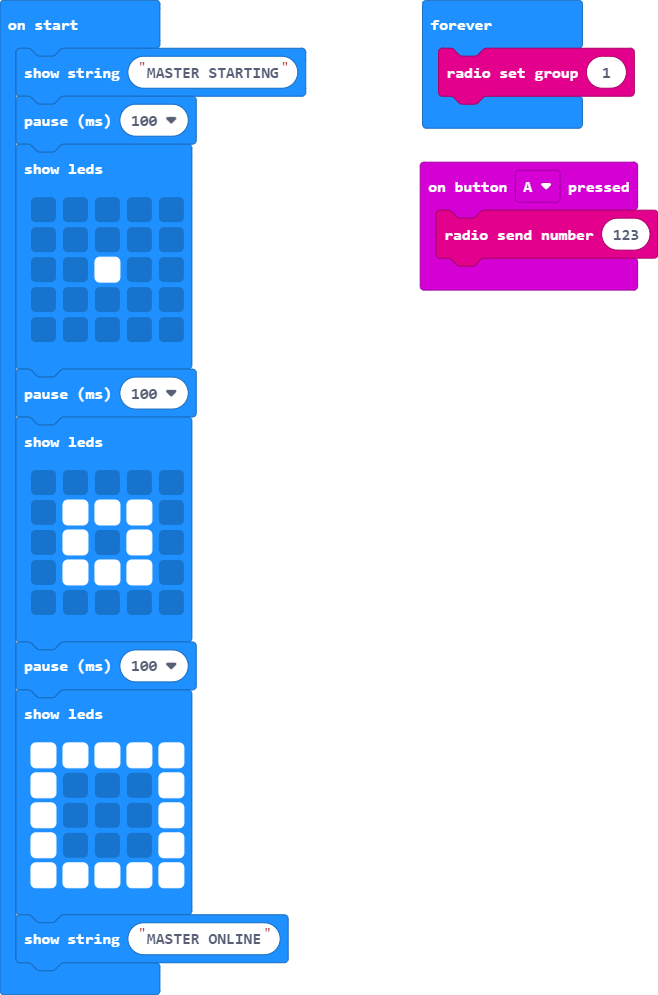
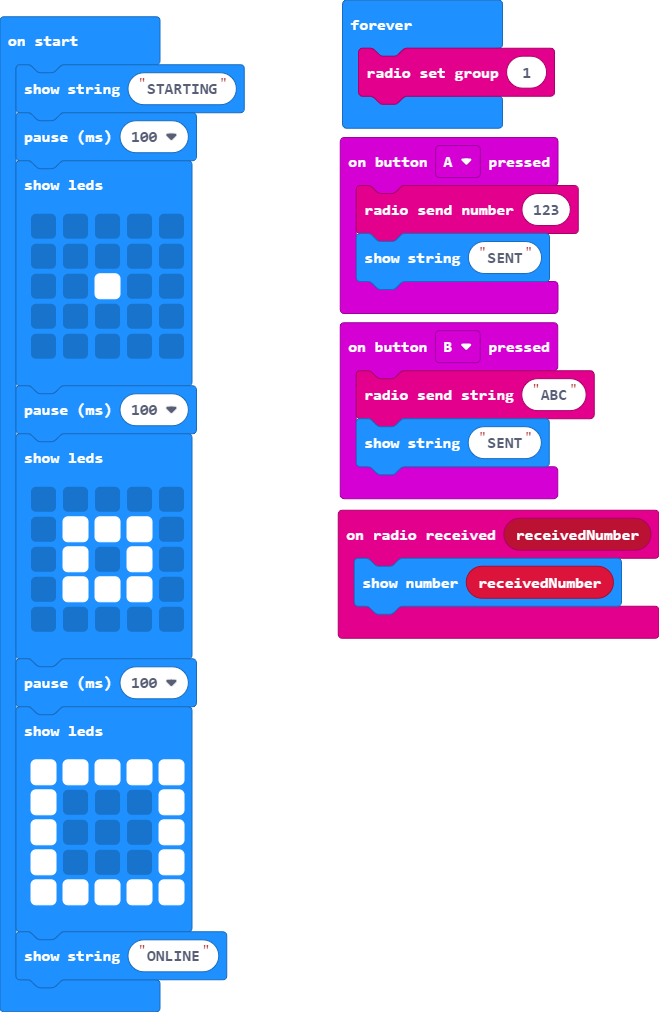
Update pxt.json, main.blocks, main.ts, main.py

diff --git a/main.ts b/main.ts
@@ -1,7 +1,15 @@
+radio.onReceivedNumber(function (receivedNumber) {
+    basic.showNumber(receivedNumber)
+})
 input.onButtonPressed(Button.A, function () {
     radio.sendNumber(123)
+    basic.showString("SENT")
 })
-basic.showString("MASTER STARTING")
+input.onButtonPressed(Button.B, function () {
+    radio.sendString("ABC")
+    basic.showString("SENT")
+})
+basic.showString("STARTING")
 basic.pause(100)
 basic.showLeds(`
     . . . . .
@@ -26,7 +34,7 @@ basic.showLeds(`
     # . . . #
     # # # # #
     `)
-basic.showString("MASTER ONLINE")
+basic.showString("ONLINE")
 basic.forever(function () {
     radio.setGroup(1)
 })

diff --git a/main.py b/main.py
@@ -1,0 +1,40 @@
+def on_button_pressed_a():
+    radio.send_number(123)
+    basic.show_string("SENT")
+input.on_button_pressed(Button.A, on_button_pressed_a)
+
+def on_button_pressed_b():
+    radio.send_string("ABC")
+    basic.show_string("SENT")
+input.on_button_pressed(Button.B, on_button_pressed_b)
+
+basic.show_string("STARTING")
+basic.pause(100)
+basic.show_leds("""
+    . . . . .
+        . . . . .
+        . . # . .
+        . . . . .
+        . . . . .
+""")
+basic.pause(100)
+basic.show_leds("""
+    . . . . .
+        . # # # .
+        . # . # .
+        . # # # .
+        . . . . .
+""")
+basic.pause(100)
+basic.show_leds("""
+    # # # # #
+        # . . . #
+        # . . . #
+        # . . . #
+        # # # # #
+""")
+basic.show_string("ONLINE")
+
+def on_forever():
+    radio.set_group(1)
+basic.forever(on_forever)
